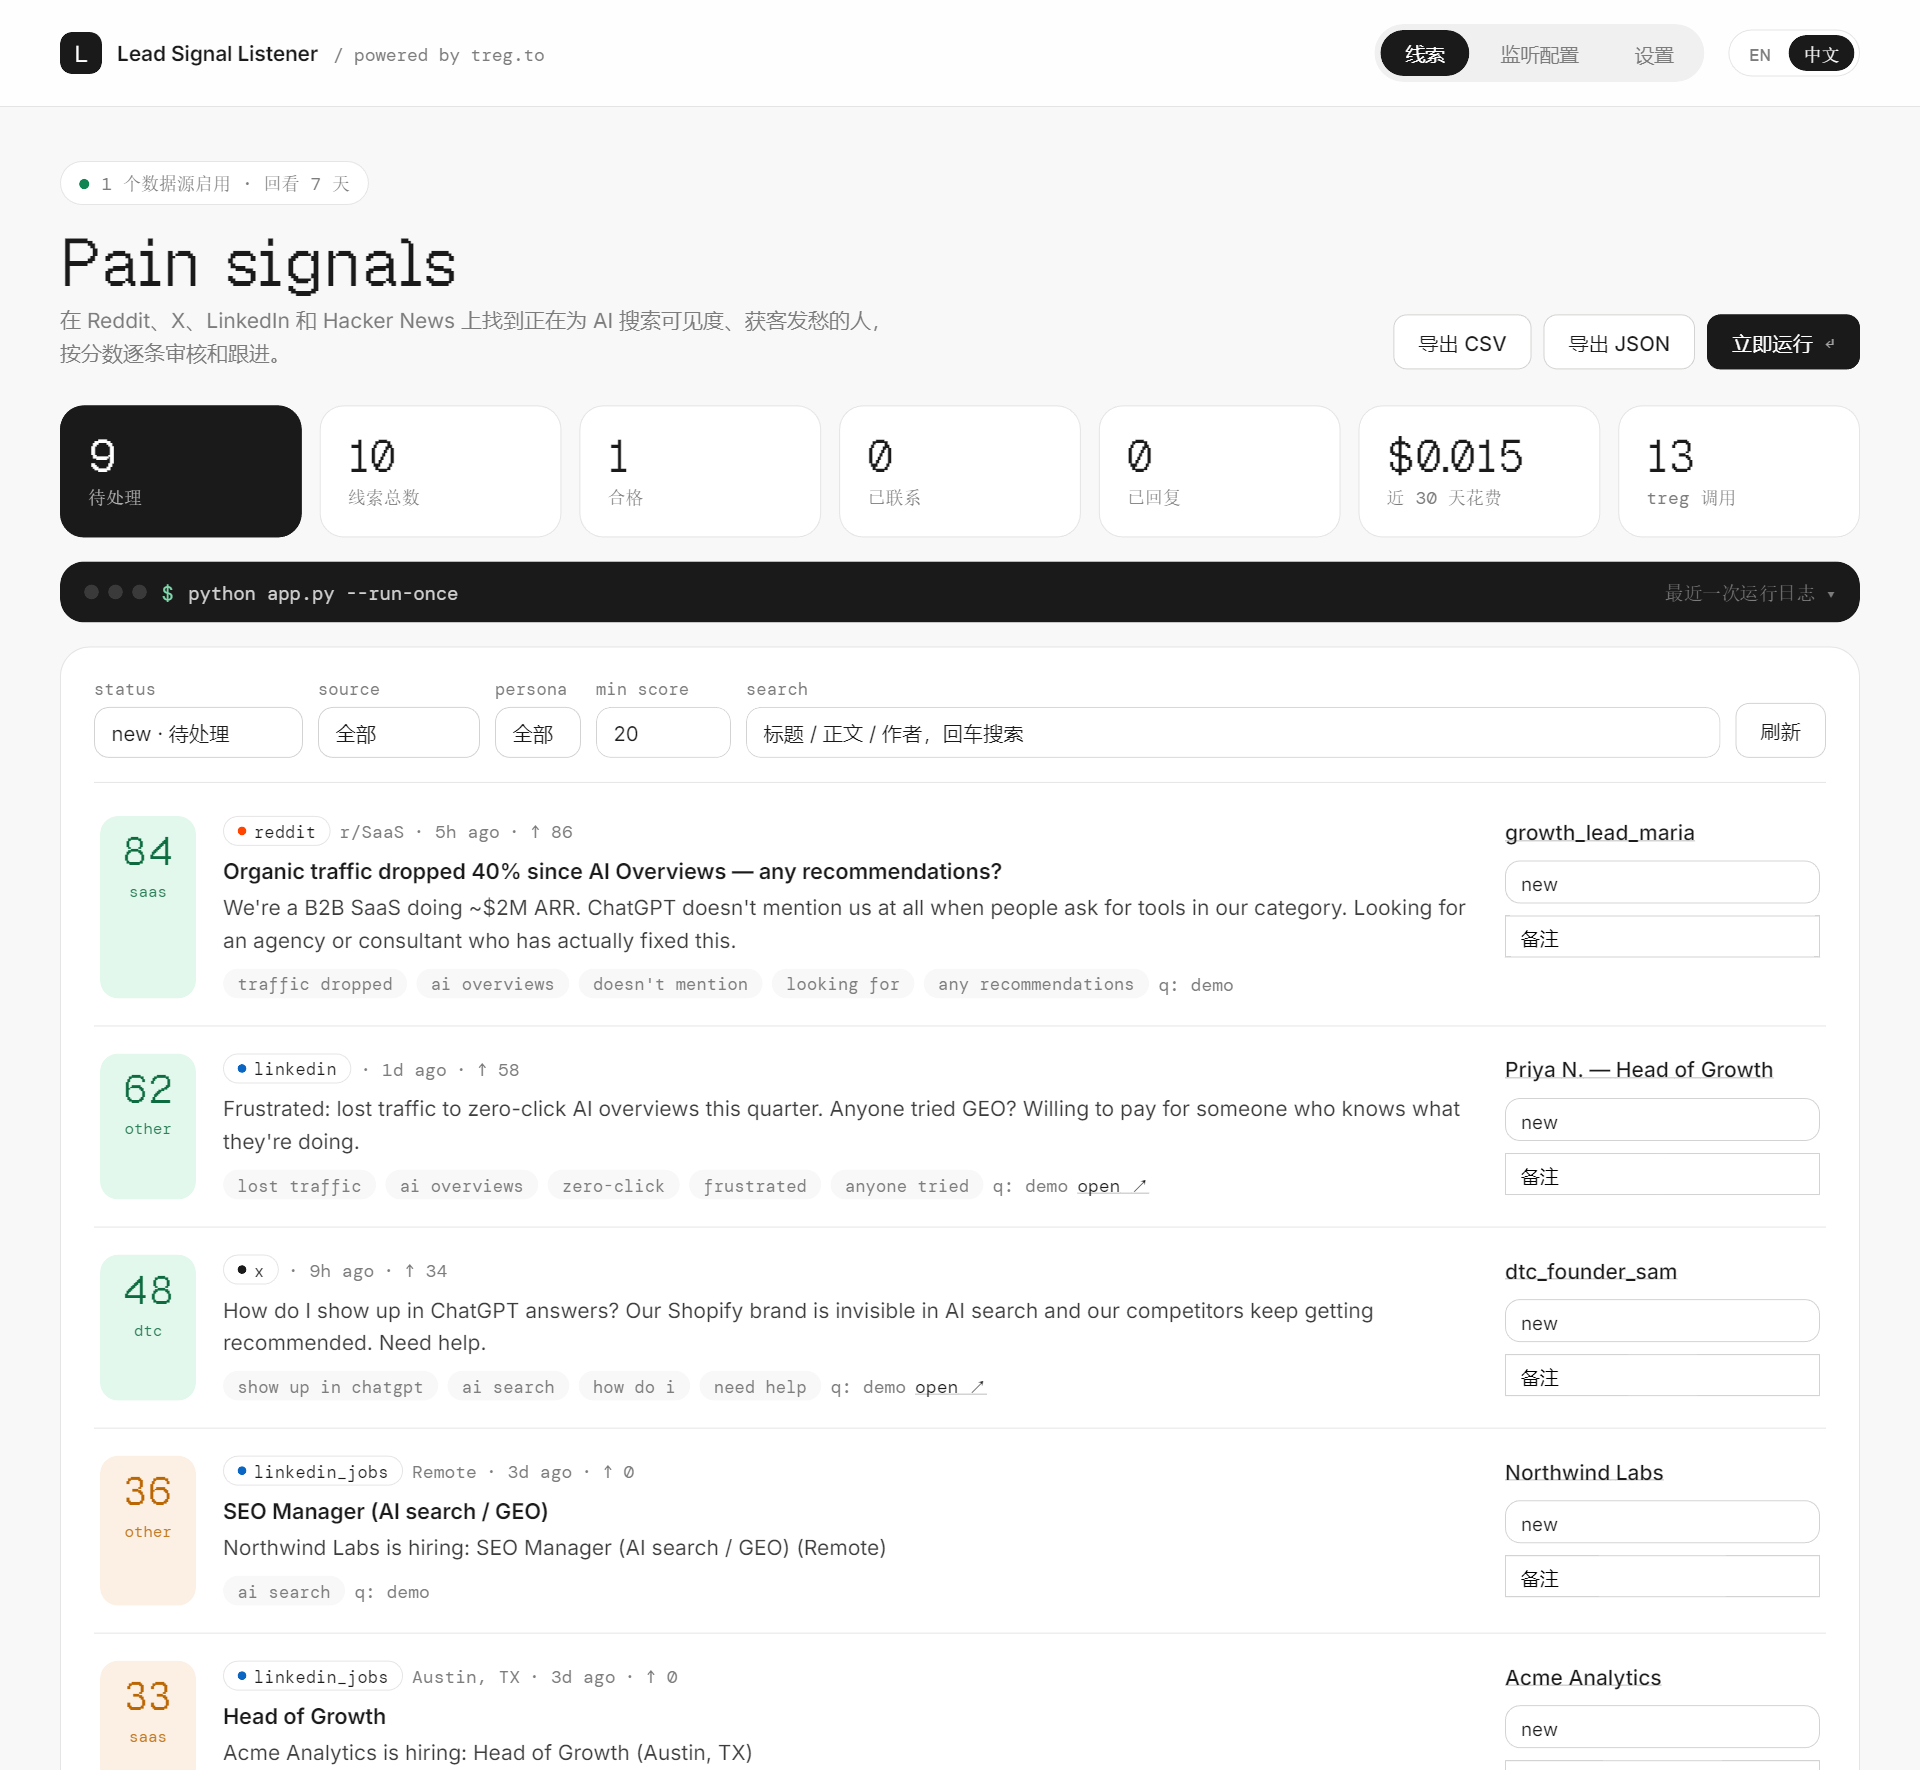
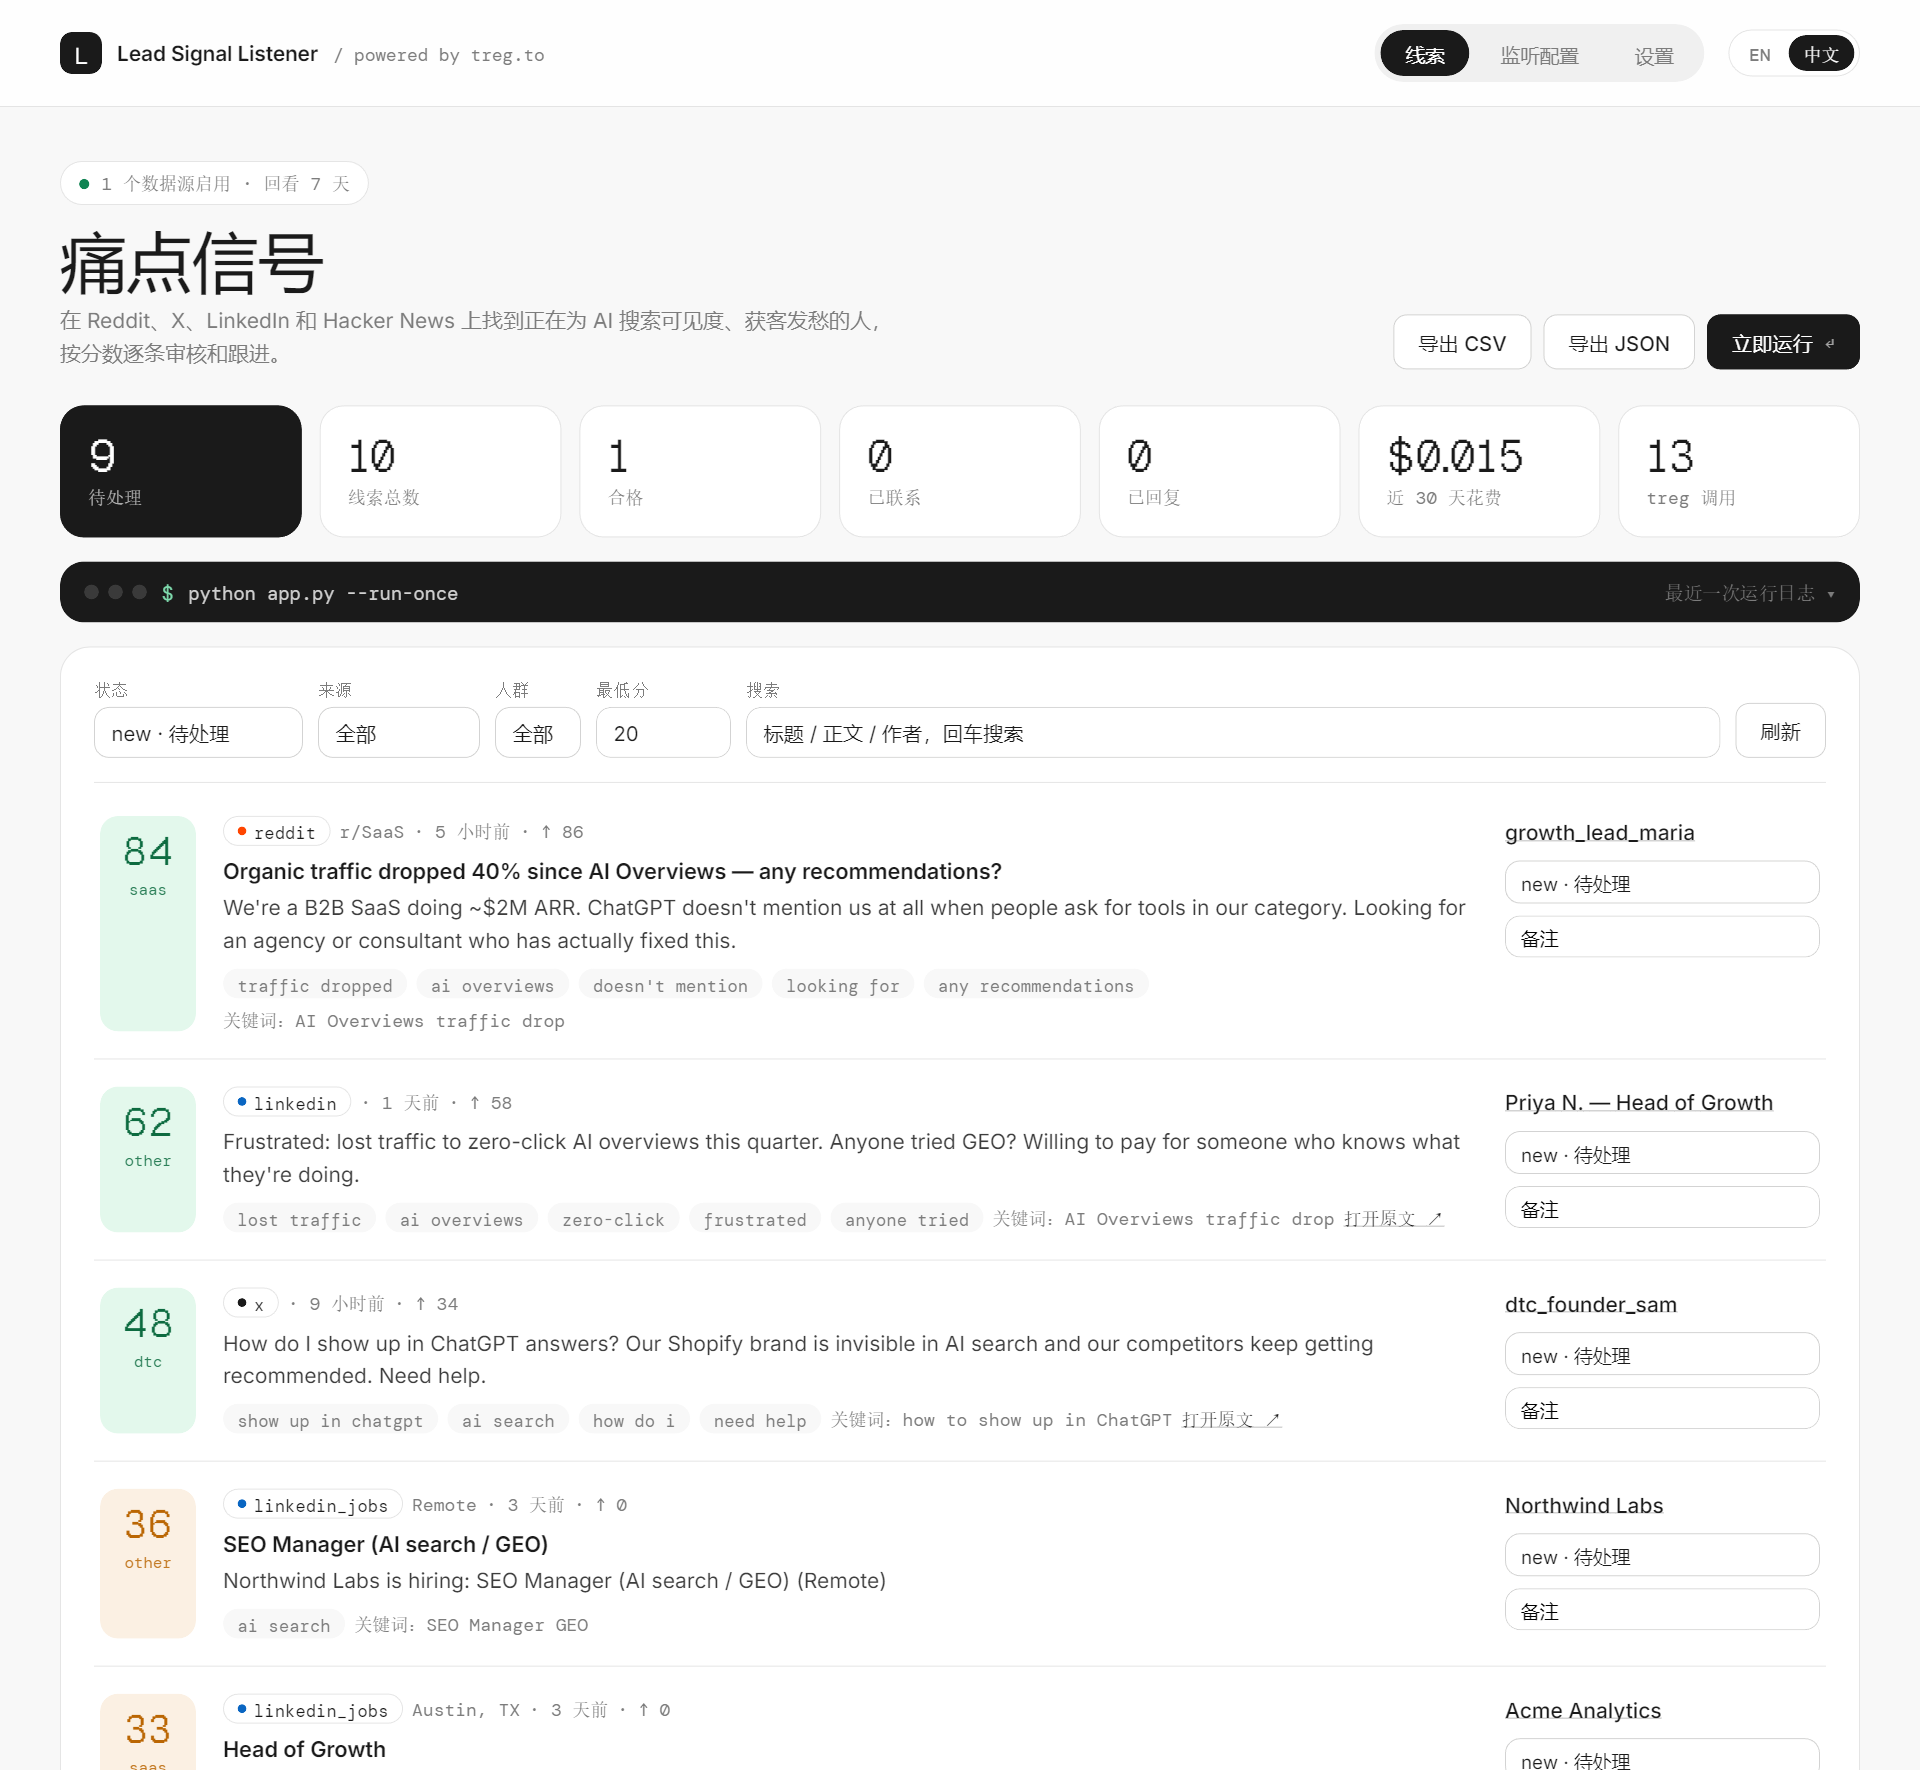
Fully localize the Chinese UI and use Chinese screenshots in README.zh-CN
- Translate the remaining UI strings: page titles, kickers, filter labels, prices,
  relative times, "open" links, catalog card and per-lead status options
- README.zh-CN now shows Chinese screenshots of both the leads and listeners pages

diff --git a/listener/static/index.html b/listener/static/index.html
@@ -194,7 +194,7 @@
     <div class="hero">
       <div>
         <span class="kicker"><span class="dot" id="liveDot"></span><span id="kickerText">loading…</span></span>
-        <h1>Pain signals</h1>
+        <h1 data-i18n="h_leads"></h1>
         <p data-i18n="leads_intro"></p>
       </div>
       <div class="actions">
@@ -213,17 +213,17 @@
 
     <div class="card">
       <div class="filters">
-        <div><label>status</label><select id="fStatus">
+        <div><label data-i18n="lb_status"></label><select id="fStatus">
           <option value="" data-i18n="all"></option>
           <option value="new" selected data-i18n="st_new"></option>
           <option value="qualified" data-i18n="st_qualified"></option>
           <option value="contacted" data-i18n="st_contacted"></option>
           <option value="replied" data-i18n="st_replied"></option>
           <option value="ignored" data-i18n="st_ignored"></option></select></div>
-        <div><label>source</label><select id="fSource"><option value="" data-i18n="all"></option><option>reddit</option><option>x</option><option>hn</option><option>linkedin</option><option>linkedin_jobs</option><option>funding</option></select></div>
-        <div><label>persona</label><select id="fPersona"><option value="" data-i18n="all"></option><option>saas</option><option>dtc</option><option>other</option></select></div>
-        <div><label>min score</label><input type="number" id="fMin" value="20" style="width:90px"></div>
-        <div style="flex:1;min-width:200px"><label>search</label><input type="text" id="fQ" data-i18n-ph="search_ph" style="width:100%"></div>
+        <div><label data-i18n="lb_source"></label><select id="fSource"><option value="" data-i18n="all"></option><option>reddit</option><option>x</option><option>hn</option><option>linkedin</option><option>linkedin_jobs</option><option>funding</option></select></div>
+        <div><label data-i18n="lb_persona"></label><select id="fPersona"><option value="" data-i18n="all"></option><option>saas</option><option>dtc</option><option>other</option></select></div>
+        <div><label data-i18n="lb_min"></label><input type="number" id="fMin" value="20" style="width:90px"></div>
+        <div style="flex:1;min-width:200px"><label data-i18n="lb_search"></label><input type="text" id="fQ" data-i18n-ph="search_ph" style="width:100%"></div>
         <button class="btn ghost" id="refreshBtn" data-i18n="refresh"></button>
       </div>
       <div id="rows"></div>
@@ -234,7 +234,7 @@
   <!-- SOURCES -->
   <section id="tab-sources" class="hidden">
     <div class="hero">
-      <div><span class="kicker">sources · keywords · rules</span><h1>Listeners</h1>
+      <div><span class="kicker" data-i18n="k_sources"></span><h1 data-i18n="h_sources"></h1>
         <p data-i18n="sources_intro"></p></div>
       <div class="actions"><span class="msg" id="srcMsg"></span><button class="btn" id="saveSources" data-i18n="save_config"></button></div>
     </div>
@@ -242,7 +242,7 @@
 
     <div class="grid" style="margin-top:14px">
       <div class="pcard">
-        <div class="ph"><label class="switch"><input type="checkbox" id="rssEnabled"><span></span></label><b>RSS / Atom</b><span class="price">free</span></div>
+        <div class="ph"><label class="switch"><input type="checkbox" id="rssEnabled"><span></span></label><b>RSS / Atom</b><span class="price" data-i18n="free"></span></div>
         <div class="pt">
           <p class="note" style="margin-top:0" data-i18n="rss_desc"></p>
           <label data-i18n="rss_feeds"></label><textarea id="rssFeeds"></textarea>
@@ -250,7 +250,7 @@
         </div>
       </div>
       <div class="pcard">
-        <div class="ph"><b>Treg catalog</b><span class="price">3,800+ endpoints</span></div>
+        <div class="ph"><b data-i18n="catalog_title"></b><span class="price" data-i18n="endpoints"></span></div>
         <div class="pt">
           <p class="note" style="margin-top:0" data-i18n="catalog_desc"></p>
           <div class="tokenrow"><input type="text" id="catQ" data-i18n-ph="catalog_ph" style="font-family:var(--sans)"><button class="btn ghost" id="catBtn" data-i18n="search"></button></div>
@@ -276,10 +276,10 @@
 
   <!-- SETTINGS -->
   <section id="tab-settings" class="hidden">
-    <div class="hero"><div><span class="kicker">one key · 3,800+ endpoints</span><h1>Settings</h1>
+    <div class="hero"><div><span class="kicker" data-i18n="k_settings"></span><h1 data-i18n="h_settings"></h1>
       <p data-i18n="settings_intro"></p></div></div>
     <div class="card">
-      <div class="eyebrow">treg api token</div>
+      <div class="eyebrow" data-i18n="eb_token"></div>
       <h2 data-i18n="token_title"></h2>
       <p class="desc" data-i18n-html="token_desc"></p>
       <div class="tokenrow">
@@ -290,7 +290,7 @@
       <div class="state"><span class="dot" id="tokenDot"></span><span id="tokenState"></span><span class="msg" id="tokenMsg"></span></div>
     </div>
     <div class="card">
-      <div class="eyebrow">budget · schedule</div>
+      <div class="eyebrow" data-i18n="eb_budget"></div>
       <h2 data-i18n="budget_title"></h2>
       <p class="desc" data-i18n-html="budget_desc"></p>
       <div class="fields">
@@ -349,6 +349,12 @@ const I18N = {
     custom_title: "Custom sources",
     custom_desc: 'Any Treg endpoint as a listener. <code>params</code> go to the query string (GET) or JSON body (POST); <code>{q}</code> is replaced by each query and <code>{days}</code> by the lookback. Optional: <code>fields</code> maps signal fields to response paths (<code>a.b|c</code> = alternatives), <code>items_path</code>, <code>url_template</code> (e.g. <code>https://www.youtube.com/watch?v={id}</code>), <code>kind</code> (pain / hiring / funding / mention / other).',
     added: "Added — review and Save", oss: "open source · MIT",
+    h_leads: "Pain signals", h_sources: "Listeners", h_settings: "Settings",
+    k_sources: "sources · keywords · rules", k_settings: "one key · 3,800+ endpoints",
+    eb_token: "treg api token", eb_budget: "budget · schedule",
+    lb_status: "status", lb_source: "source", lb_persona: "persona", lb_min: "min score", lb_search: "search",
+    free: "free", per_call: "/ call", per_result: "per result", catalog_title: "Treg catalog", endpoints: "3,800+ endpoints",
+    open: "open ↗", q_prefix: "q: ", ago_h: n => `${n}h ago`, ago_d: n => `${n}d ago`,
   },
   zh: {
     tab_leads: "线索", tab_sources: "监听配置", tab_settings: "设置",
@@ -383,18 +389,24 @@ const I18N = {
     custom_title: "自定义数据源",
     custom_desc: '把任意 Treg 端点变成监听源。<code>params</code> 在 GET 时作为查询参数、POST 时作为 JSON 请求体；<code>{q}</code> 会替换为每个关键词，<code>{days}</code> 替换为回看天数。可选：<code>fields</code> 把线索字段映射到返回数据路径（<code>a.b|c</code> 表示依次尝试），<code>items_path</code>，<code>url_template</code>（如 <code>https://www.youtube.com/watch?v={id}</code>），<code>kind</code>（pain / hiring / funding / mention / other）。',
     added: "已添加，确认后点保存", oss: "开源 · MIT 许可",
+    h_leads: "痛点信号", h_sources: "监听配置", h_settings: "设置",
+    k_sources: "数据源 · 关键词 · 规则", k_settings: "一个 key · 3800+ 端点",
+    eb_token: "treg api token", eb_budget: "预算 · 定时",
+    lb_status: "状态", lb_source: "来源", lb_persona: "人群", lb_min: "最低分", lb_search: "搜索",
+    free: "免费", per_call: "/ 次", per_result: "按条计费", catalog_title: "Treg 目录", endpoints: "3800+ 端点",
+    open: "打开原文 ↗", q_prefix: "关键词：", ago_h: n => `${n} 小时前`, ago_d: n => `${n} 天前`,
   },
 };
 let LANG = localStorage.getItem("sl_lang") || "en";
 const T = (k, ...a) => { const v = (I18N[LANG] || I18N.en)[k] ?? I18N.en[k] ?? k; return typeof v === "function" ? v(...a) : v; };
 
 const SRC_META = {
-  hn: {name: () => "Hacker News", cost: "free · algolia"},
-  reddit: {name: () => "Reddit", cost: "≈ $0.002 / call"},
-  x: {name: () => "X (Twitter)", cost: "≈ $0.00075–0.015 / call"},
-  linkedin_posts: {name: () => T("src_linkedin_posts"), cost: "≈ $0.002 / call"},
-  linkedin_jobs: {name: () => T("src_linkedin_jobs"), cost: "≈ $0.0005 / call"},
-  funding: {name: () => T("src_funding"), cost: "per result"},
+  hn: {name: () => "Hacker News", cost: () => T("free") + " · algolia"},
+  reddit: {name: () => "Reddit", cost: () => "≈ $0.002 " + T("per_call")},
+  x: {name: () => "X (Twitter)", cost: () => "≈ $0.00075–0.015 " + T("per_call")},
+  linkedin_posts: {name: () => T("src_linkedin_posts"), cost: () => "≈ $0.002 " + T("per_call")},
+  linkedin_jobs: {name: () => T("src_linkedin_jobs"), cost: () => "≈ $0.0005 " + T("per_call")},
+  funding: {name: () => T("src_funding"), cost: () => T("per_result")},
 };
 let CONFIG = null;
 const $ = id => document.getElementById(id);
@@ -457,7 +469,7 @@ async function loadConfig() {
     const extra = key === "linkedin_jobs" ? `<label style="margin-top:12px">${T("location")}</label><input type="text" data-loc="${key}" value="${esc(s.location || "United States")}" style="width:100%">`
                 : key === "funding" ? `<label>${T("region")}</label><select data-region="${key}">${["US","EU","GLOBAL"].map(r => `<option ${s.region===r?"selected":""}>${r}</option>`).join("")}</select><p class="note">${T("funding_note")}</p>` : "";
     const queries = key === "funding" ? "" : `<label>${T("keywords")} · ${(s.queries || []).length}</label><textarea data-q="${key}">${esc((s.queries || []).join("\n"))}</textarea>`;
-    grid.insertAdjacentHTML("beforeend", `<div class="pcard"><div class="ph"><label class="switch"><input type="checkbox" data-en="${key}" ${s.enabled ? "checked" : ""}><span></span></label><b>${esc(meta.name())}</b><span class="price">${meta.cost}</span></div><div class="pt">${queries}${extra}</div></div>`);
+    grid.insertAdjacentHTML("beforeend", `<div class="pcard"><div class="ph"><label class="switch"><input type="checkbox" data-en="${key}" ${s.enabled ? "checked" : ""}><span></span></label><b>${esc(meta.name())}</b><span class="price">${esc(meta.cost())}</span></div><div class="pt">${queries}${extra}</div></div>`);
   }
 }
 
@@ -541,7 +553,7 @@ function filterQS() {
 function ago(ts) {
   if (!ts) return "";
   const d = (Date.now() / 1000 - ts) / 86400;
-  return d < 1 ? Math.max(1, Math.round(d * 24)) + "h ago" : Math.round(d) + "d ago";
+  return d < 1 ? T("ago_h", Math.max(1, Math.round(d * 24))) : T("ago_d", Math.round(d));
 }
 async function loadSignals() {
   const rows = await api("/api/signals?" + filterQS());
@@ -558,11 +570,11 @@ async function loadSignals() {
         <div class="meta"><span class="pill src src-${esc(r.source)}">${esc(r.source)}</span>${r.community ? `<span>${esc(r.community)}</span>` : ""}<span>· ${ago(r.created_utc)}</span><span>· ↑ ${r.engagement}</span></div>
         ${head}
         <div class="snippet" title="${T("expand")}">${esc(r.text)}</div>
-        <div class="foot">${matched}<span>q: ${esc(r.query)}</span>${!r.title ? `<a href="${safeUrl(r.url)}" target="_blank" rel="noopener noreferrer">open ↗</a>` : ""}</div>
+        <div class="foot">${matched}<span>${T("q_prefix")}${esc(r.query)}</span>${!r.title ? `<a href="${safeUrl(r.url)}" target="_blank" rel="noopener noreferrer">${T("open")}</a>` : ""}</div>
       </div>
       <div class="side">
         <div class="who">${r.author_url ? `<a href="${safeUrl(r.author_url)}" target="_blank" rel="noopener noreferrer">${esc(r.author || "—")}</a>` : esc(r.author || "—")}</div>
-        <select data-id="${r.id}" class="st">${["new","qualified","contacted","replied","ignored"].map(s => `<option ${s===r.status?"selected":""}>${s}</option>`).join("")}</select>
+        <select data-id="${r.id}" class="st">${["new","qualified","contacted","replied","ignored"].map(s => `<option value="${s}" ${s===r.status?"selected":""}>${T("st_" + s)}</option>`).join("")}</select>
         <input class="noteinput" data-id="${r.id}" value="${esc(r.note)}" placeholder="${T("note_ph")}">
       </div></div>`;
   }).join("") || `<div class="empty"><b>${T("empty_t")}</b>${T("empty_d")}</div>`;
